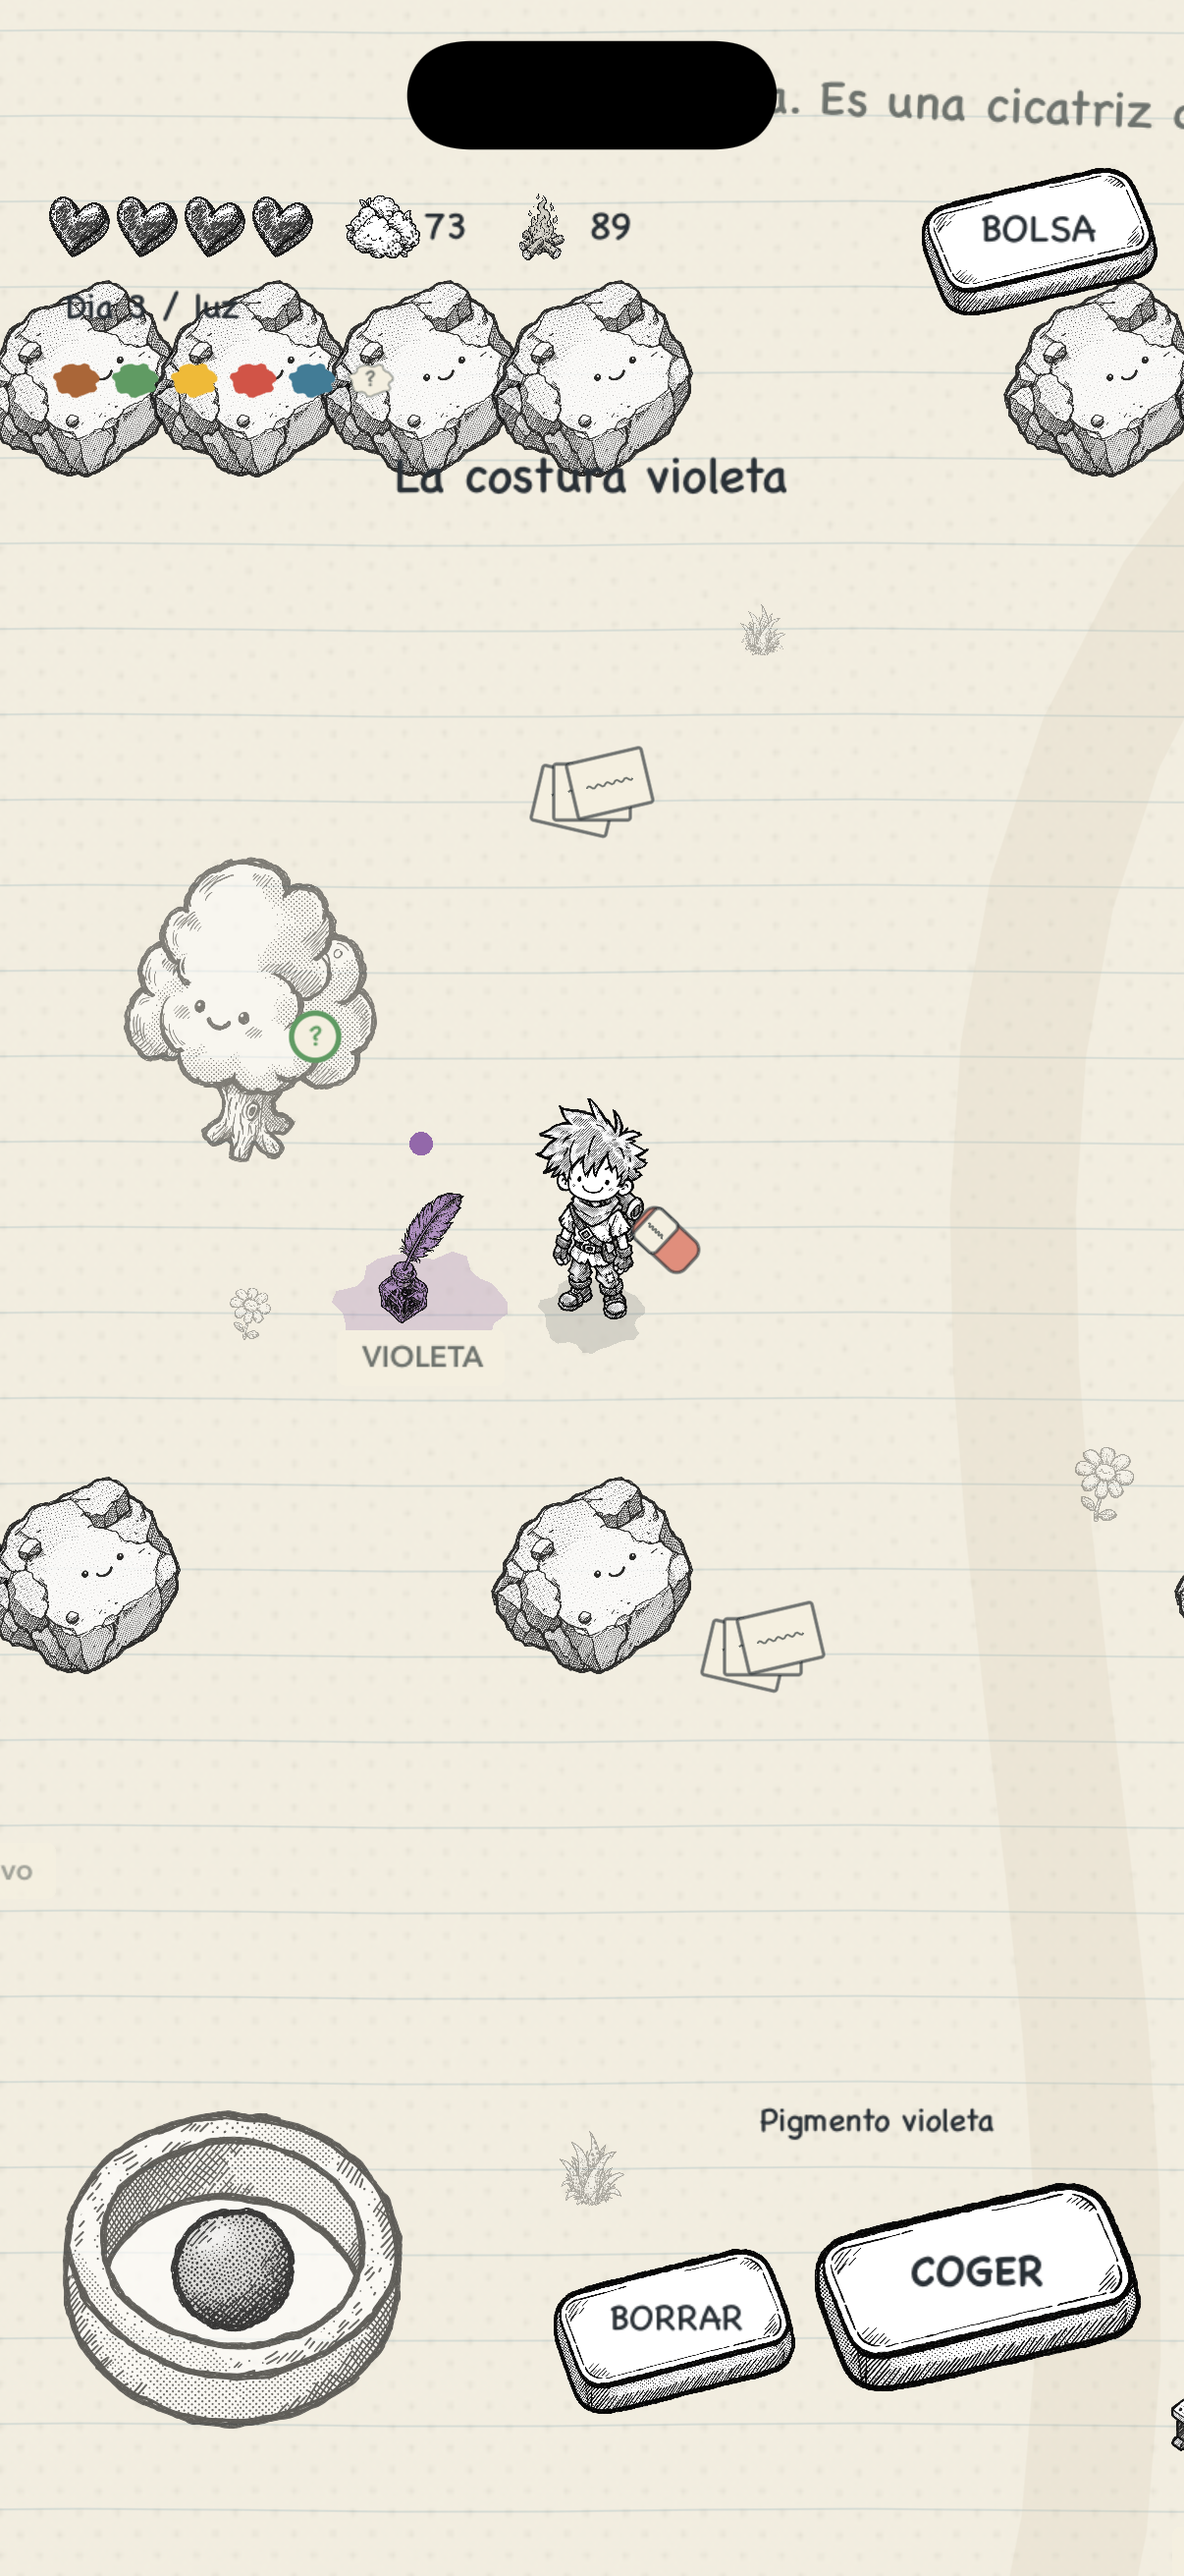
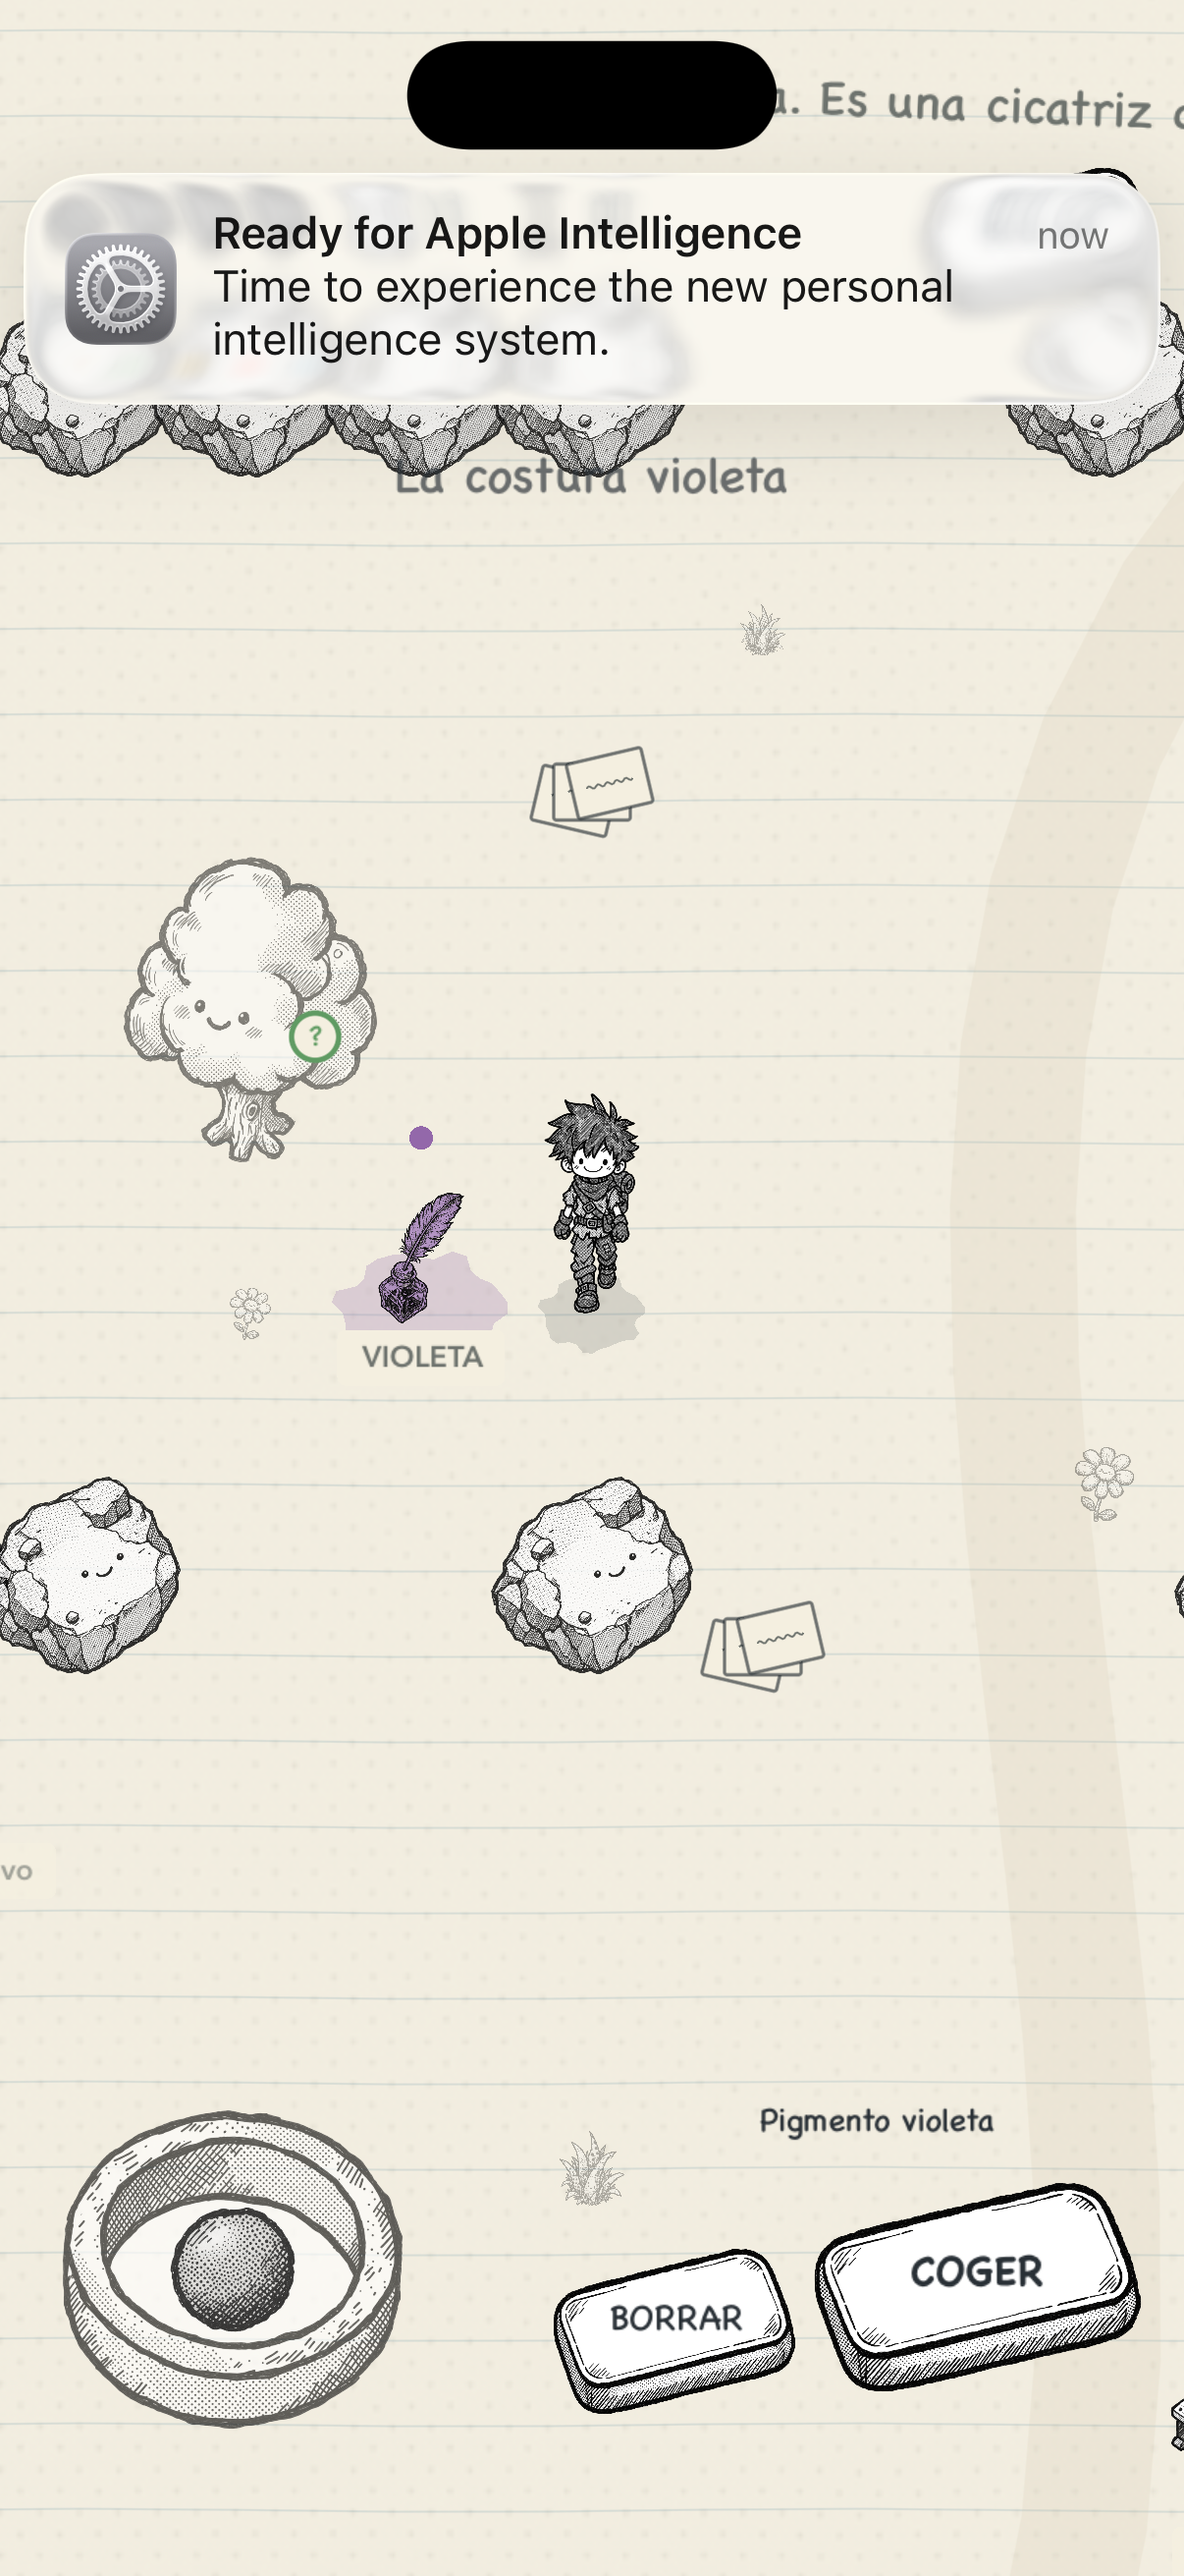
Refresh iPhone captures and add Nib motion preview
Document the deployed 2.1 build with tool-free cover and idle poses, plus a native recording of the directional and action animations.

Changed region(s): [[0.0307, 0.0618, 0.9818, 0.2162], [0.4602, 0.4016, 0.5829, 0.5252]]

diff --git a/docs/screenshots/README.md b/docs/screenshots/README.md
@@ -1,16 +1,17 @@
 # El desborde: iPhone screenshots
 
 These are actual `simctl` captures from the iPhone 17 Pro simulator, at
-1206 x 2622 pixels. The source is commit `fc891070f285e9f4bfd7f016546cfc91afce193a`,
-captured in [workflow run 33950749012](https://github.com/jrubiosainz/notebookgame/actions/runs/33950749012).
+1206 x 2622 pixels. The source is version 2.1 (build 3), commit
+`1d0050fb29e08766de4e85a85b9dd24e05e37c53`, captured in
+[workflow run 33959915583](https://github.com/jrubiosainz/notebookgame/actions/runs/33959915583).
 The run also builds the unsigned iOS Release app. These are not physical-device
 captures or a TestFlight distribution.
 
 | Capture | What it shows |
 | --- | --- |
-| 01-cover | Illustrated cover and the original paper button style |
+| 01-cover | Illustrated cover, original paper buttons and Nib without a decorative eraser |
 | 02-prologue | The opening story |
-| 03-first-pigment | Full-screen exploration, original joystick and unpainted chest |
+| 03-first-pigment | Full-screen exploration, original joystick and Nib's directional resting pose |
 | 04-brown-awakening | The same chest after applying brown |
 | 05-a-light-in-the-ink | Night, firelight, shelter, walls and paths |
 | 06-notebook-atlas | Connected pages across three depths |
@@ -26,6 +27,12 @@ and first page are fresh states; later scenes seed reachable progress and a camp
 to make visual comparisons reproducible. The actual campaign is separately
 walked through using the game engine's movement, interaction and survival APIs.
 Fixtures neither load nor overwrite the player's adventure save.
+
+`nib-motion.gif` is a separate native macOS recording of the **same SpriteKit
+character animator** used on iPhone. It shows four walking directions plus
+painting and erasing, with held tools put away after each gesture. It is a pose
+showcase, not an iPhone screen recording. Reproduce it with the native preview's
+`--animate <output.gif>` option.
 
 To regenerate the iPhone images, run the **iPhone adventure** workflow on this
 branch and download its `iphone-screenshots` artifact. A dependency-free native

diff --git a/README.md b/README.md
@@ -52,6 +52,8 @@ art family. The left-facing cycle mirrors the right; footsteps follow actual
 distance, and stopping preserves the facing direction. Painting and erasing
 have their own short body gestures, held-tool motion and effects. Tools are
 put away afterward: neither the idle character nor the cover has a floating eraser.
+The [animated pose preview](docs/screenshots/nib-motion.gif) shows the shared
+SpriteKit animator's walking, erasing and painting gestures.
 
 Daylight lasts 160 seconds and night 80. Food, warmth and the integrity of Nib's
 outline matter. Collect renewable supplies, build paper paths over ink, wooden
@@ -88,7 +90,7 @@ reported, not silently replaced. New game requires confirmation.
 
 [Nine iPhone screenshots](docs/screenshots/) show the actual game running in the
 iPhone 17 Pro simulator, not concept art. They were captured by
-[the iPhone workflow](https://github.com/jrubiosainz/notebookgame/actions/runs/33950749012).
+[the iPhone workflow](https://github.com/jrubiosainz/notebookgame/actions/runs/33959915583).
 Development captures use explicit, reproducible gameplay fixtures, including a
 built night camp; they never overwrite a player's save.
 
